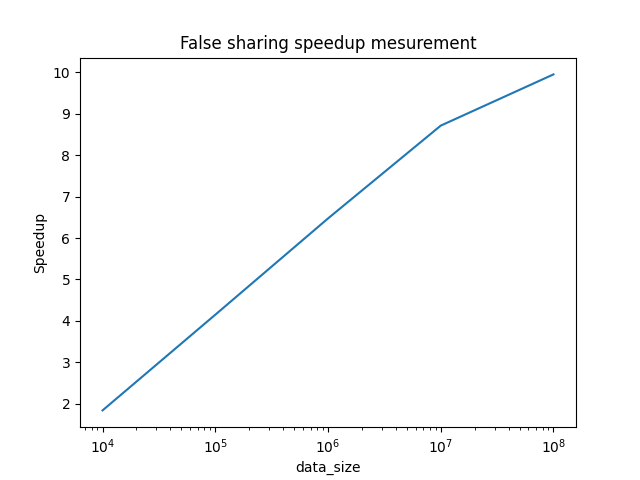
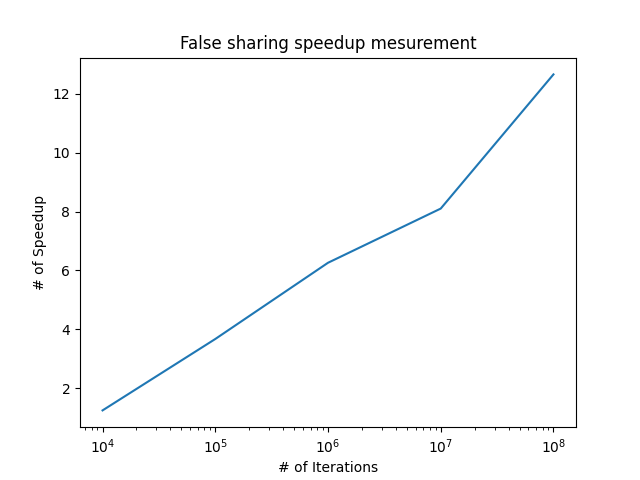
Update the Ref

diff --git a/Ref/false_sharing/test.py b/Ref/false_sharing/test.py
@@ -17,8 +17,8 @@ for i in test_data:
 
 axs = plt.axes()
 axs.set_xscale('log')
-axs.set_xlabel("data_size")
-axs.set_ylabel("Speedup")
+axs.set_xlabel("# of Iterations")
+axs.set_ylabel("# of Speedup")
 plt.plot(test_data, res)
 plt.title("False sharing speedup mesurement")
 plt.savefig("./rate.png")
